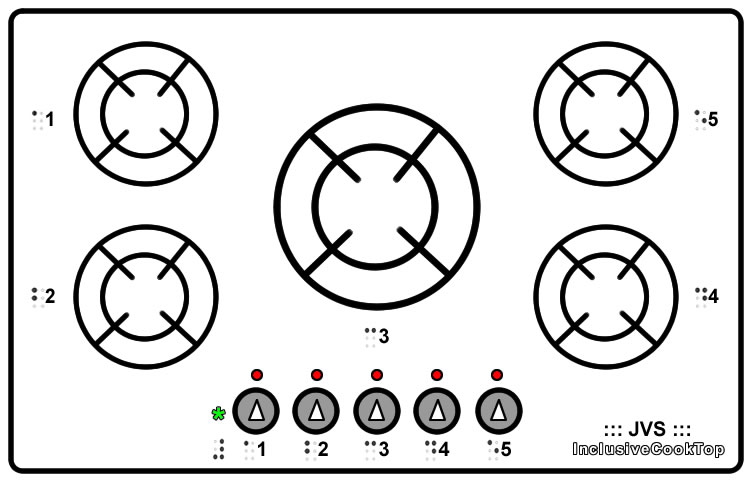
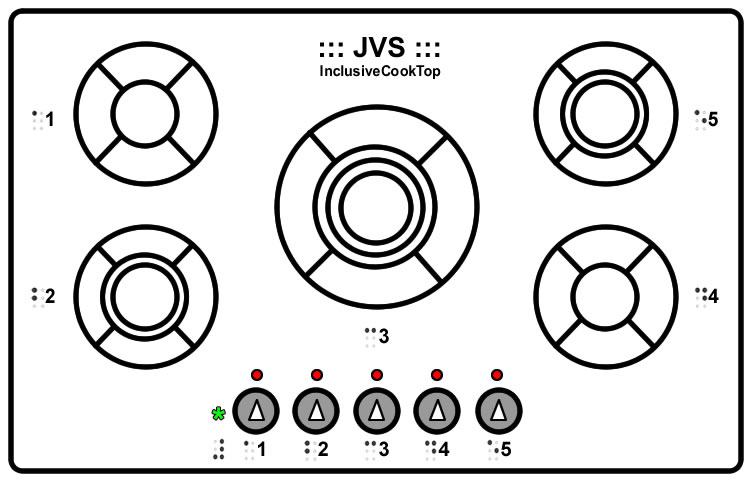
Início da seção do manual

diff --git a/modulo_1/index.html b/modulo_1/index.html
@@ -24,7 +24,7 @@
       "
     >
       <h1 style="margin: 0">
-        InclusiveCookTop - Interface Acessível para Fogão
+        InclusiveCookTop - Projeto de Interface Acessível para Fogão
       </h1>
       <p style="margin-top: 10px; text-align: justify">
         Apresentação do protótipo de controle de bocas, pensado na usabilidade,
@@ -65,9 +65,8 @@
           >ceratocone</a
         >, foi realizado um mapeamento de necessidades reais, aplicando-se
         princípios de usabilidade (hierarquia visual, feedback, legibilidade,
-        etc.) e acessibilidade (contraste, rótulos claros, alternativas
-        multimodais, etc.) para reduzir erros e consequentemente o aumento da
-        segurança.
+        etc.) e acessibilidade (contraste e rótulos claros, por exemplo) para
+        reduzir erros e consequentemente o aumento da segurança.
       </p>
     </div>
     <!-- Interface do Fogão -->
@@ -98,7 +97,11 @@
           de liga/desliga das bocas. Cada botão é devidamente identificado com
           seu respectivo número ordinal e ao lado com sua representação em
           braile tátil, que está associado a cada uma das bocas do referido
-          fogão. Dotado de uma boca central maior, geralmente chamada de tripla
+          fogão. Dotado de duas bocas com chamas simples e duas bocas com chamas
+          duplas, alternadas na parte de cima e na parte debaixo (permitindo
+          acesso democrático e facilitado para esses dois tipos de bocas, às
+          pessoas que possuírem dificuldades de acesso às bocas superiores),
+          além é claro, de uma boca central maior, geralmente chamada de tripla
           chama ou queimador de alta potência, com o objetivo de proporcionar um
           cozimento mais rápido e eficiente para grandes receitas e panelas.
         </p>
@@ -159,7 +162,7 @@
           Estratégia do uso de cores, formas, sons e/ou texturas
         </h3>
         <p style="margin-top: 10px; text-align: justify">
-          As cores são escolhidas com atenção ao contraste, de acordo com as
+          As cores foram escolhidas com atenção ao contraste, de acordo com as
           <a
             href="https://sol.sbc.org.br/index.php/eri-mt/article/view/31206/31009"
             target="_blank"
@@ -173,6 +176,99 @@
           (apontador), principais para usuários com baixa visão ou cegos.
           Vídeos/áudios opcionais no manual, para explicar uso ou passo a passo.
         </p>
+      </div>
+    </div>
+    <!-- Manual de Utilização -->
+    <div
+      id="manual"
+      style="
+        background-color: #ffffff;
+        border: 2px solid #dcdcdc;
+        padding: 20px;
+        padding-bottom: 0;
+        margin-top: 20px;
+      "
+    >
+      <h2 style="margin: 0">
+        3. Manual de Utilização do Fogão (Guia Acessível)
+      </h2>
+      <div style="margin-top: 10px">
+        <h3 style="margin: 6px 0">Visao geral dos controles</h3>
+        <table
+          style="
+            border: 1px solid #dcdcdc;
+            border-collapse: collapse;
+            margin-bottom: 10px;
+            width: 100%;
+          "
+        >
+          <tr style="background-color: #dcdcdc">
+            <th style="text-align: left; padding: 10px; width: 40%">
+              Botão / Ícone
+            </th>
+            <th style="text-align: left; padding: 10px; width: 60%">Função</th>
+          </tr>
+          <tr>
+            <td style="padding: 8px; border: 1px solid #ddd">
+              <strong>Indicador de Posição do Botão: Ligado / Desligado</strong
+              ><br />(Ícone do triângulo branco)
+            </td>
+            <td style="padding: 8px; border: 1px solid #ddd">
+              Cada botão possui um indicador (triângulo) em alto relevo.
+            </td>
+          </tr>
+          <tr>
+            <td style="padding: 8px; border: 1px solid #ddd">
+              <strong>Ligar Boca 1 / Boca 2 / Boca 3 / Boca 4 / Boca 5</strong
+              ><br />(Ícone do asterisco verde)
+            </td>
+            <td style="padding: 8px; border: 1px solid #ddd">
+              Seleciona o botão que representa a respectiva boca, gire-o à
+              esquerda (caso esteja na posição de desligado - círculo vermelho)
+              para ajustar a potência da chama.
+            </td>
+          </tr>
+          <tr>
+            <td style="padding: 8px; border: 1px solid #ddd">
+              <strong
+                >Desligar Boca 1 / Boca 2 / Boca 3 / Boca 4 / Boca 5</strong
+              ><br />(Ícone do círculo vermelho)
+            </td>
+            <td style="padding: 8px; border: 1px solid #ddd">
+              Seleciona o botão que representa a respectiva boca, gire-o à
+              direita (caso esteja na posição de ligado - asterisco verde) para
+              desligar a chama da boca.
+            </td>
+          </tr>
+        </table>
+      </div>
+      <div style="margin-top: 10px">
+        <h3 style="margin: 0">Passo a passo: como acender uma boca</h3>
+        <ol style="margin-top: 10px; text-align: justify">
+          <li>
+            Certifique-se de que não há recipientes fora de posição. (Segurança)
+          </li>
+          <li>
+            Seleciona o botão que representa a respectiva boca, gire-o à
+            esquerda, ao asterisco verde (caso esteja com o indicador de posição
+            - triângulo branco em alto relevo - apontando ao círculo vermelho).
+            Ajuste a temperatura da boca ajustando o respectivo giro.
+          </li>
+        </ol>
+      </div>
+      <div style="margin-top: 10px">
+        <h3 style="margin: 0">Dicas de segurança acessíveis</h3>
+        <ul style="margin-top: 10px; text-align: justify">
+          <li>Não deixe panelas sem supervisão em níveis altos.</li>
+          <li>
+            Use cabos de panela curtos; mantenha alças viradas para dentro.
+          </li>
+          <li>
+            Se houver cheiro de gás (em fogões a gás), feche o registro e abra
+            janelas antes de acionar aparelhos elétricos.
+          </li>
+          <li>Mantenha crianças longe do fogão.</li>
+        </ul>
       </div>
     </div>
   </body>
